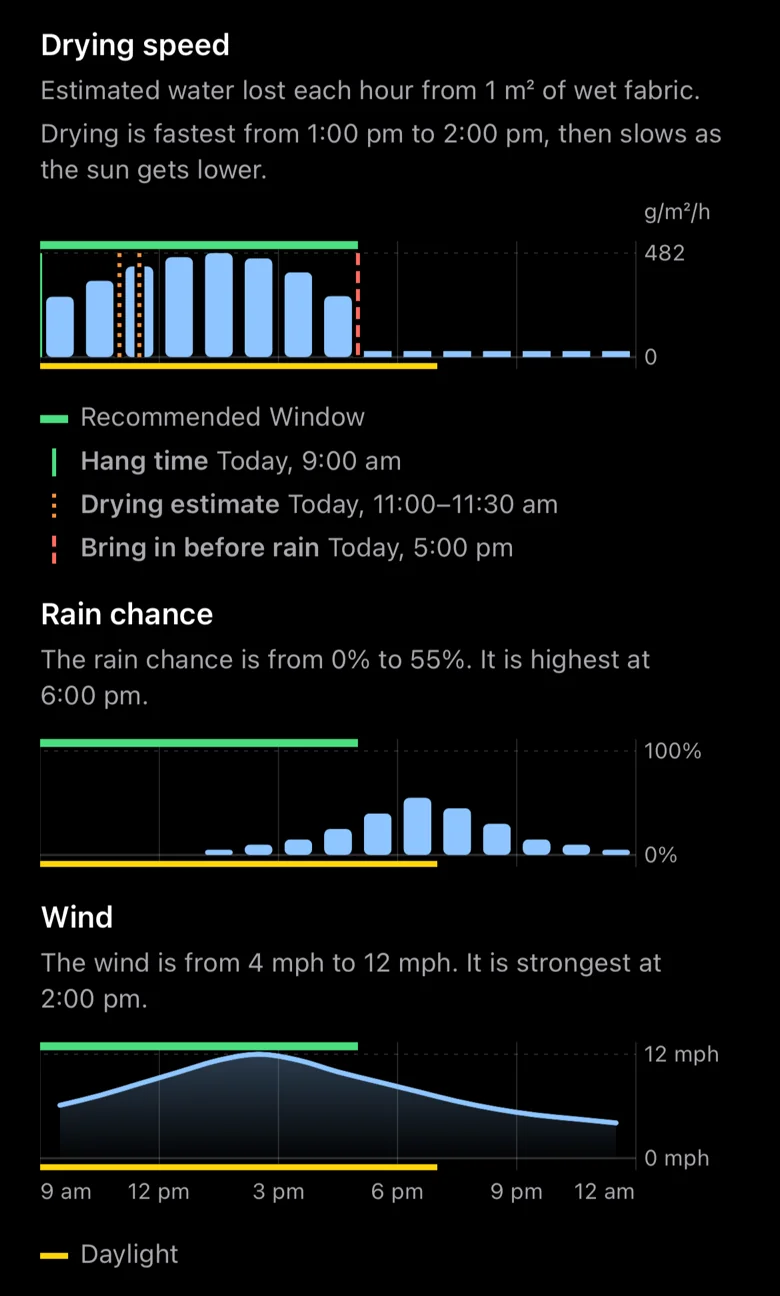
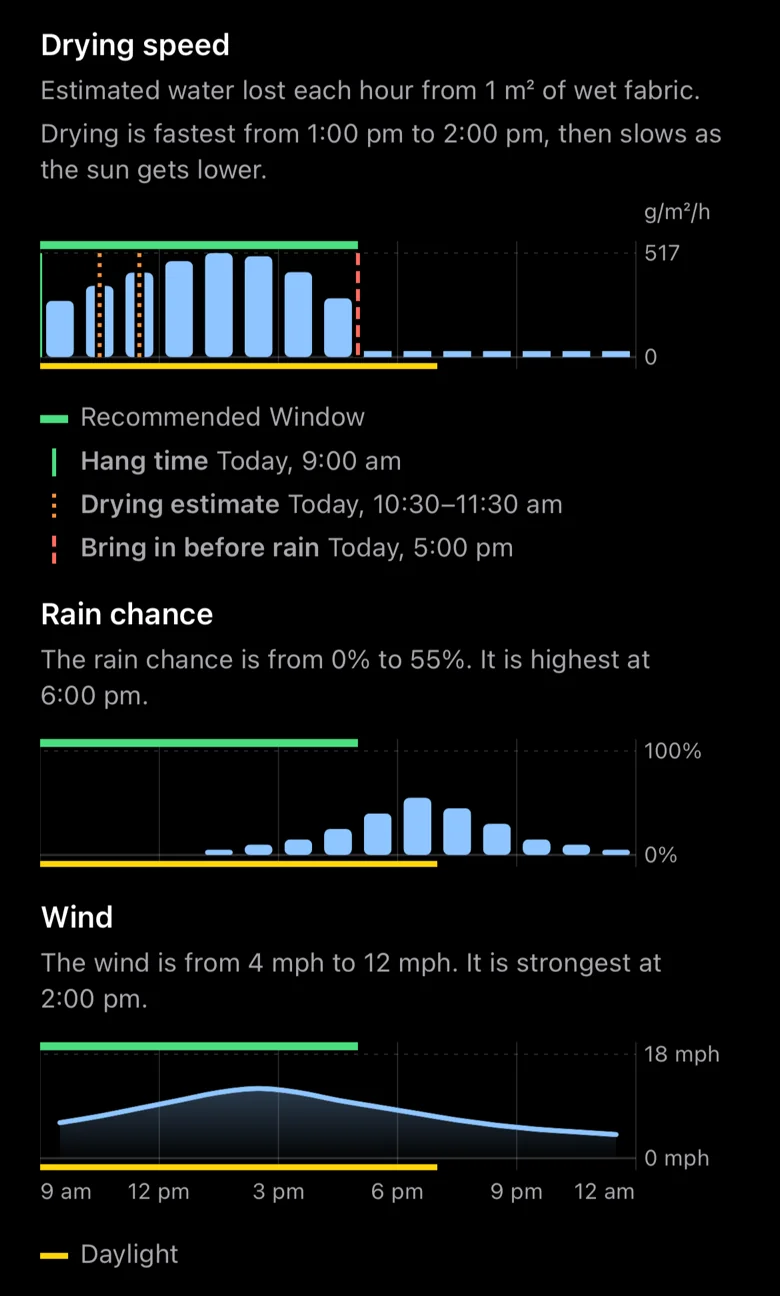
Show the PegCast build 16 screens
The weather chart now shows the line-dried drying estimate, 10:30 to 11:30 am. The images come from hosted run 39448504893.

diff --git a/src/app/pegcast/page.tsx b/src/app/pegcast/page.tsx
@@ -95,9 +95,9 @@ const liveActivityAlt: Themed = {
 };
 const chartAlt: Themed = {
   light:
-    "On a white background. Three weather charts, from 9 am to after midnight. Drying speed: estimated water lost each hour from 1 square metre of wet fabric. Drying is fastest from 1:00 pm to 2:00 pm, then slows as the sun gets lower. Its bars end at 5:00 pm, when rain is due, and a dashed line shows no drying after that. A key names the Recommended Window, the hang time at 9:00 am, the drying estimate from 11:00 to 11:30 am, and bring in before rain at 5:00 pm. Rain chance: from 0% to 55%, highest at 6:00 pm. Wind: from 4 mph to 12 mph, strongest at 2:00 pm. A green band along the top of each chart marks the Recommended Window, and a thin strip along the bottom marks the daylight hours.",
+    "On a white background. Three weather charts, from 9 am to after midnight. Drying speed: estimated water lost each hour from 1 square metre of wet fabric. Drying is fastest from 1:00 pm to 2:00 pm, then slows as the sun gets lower. Its bars end at 5:00 pm, when rain is due, and a dashed line shows no drying after that. A key names the Recommended Window, the hang time at 9:00 am, the drying estimate from 10:30 to 11:30 am, and bring in before rain at 5:00 pm. Rain chance: from 0% to 55%, highest at 6:00 pm. Wind: from 4 mph to 12 mph, strongest at 2:00 pm. A green band along the top of each chart marks the Recommended Window, and a thin strip along the bottom marks the daylight hours.",
   dark:
-    "On a black background. Three weather charts, from 9 am to after midnight. Drying speed: estimated water lost each hour from 1 square metre of wet fabric. Drying is fastest from 1:00 pm to 2:00 pm, then slows as the sun gets lower. Its bars end at 5:00 pm, when rain is due, and a dashed line shows no drying after that. A key names the Recommended Window, the hang time at 9:00 am, the drying estimate from 11:00 to 11:30 am, and bring in before rain at 5:00 pm. Rain chance: from 0% to 55%, highest at 6:00 pm. Wind: from 4 mph to 12 mph, strongest at 2:00 pm. A green band along the top of each chart marks the Recommended Window, and a thin strip along the bottom marks the daylight hours.",
+    "On a black background. Three weather charts, from 9 am to after midnight. Drying speed: estimated water lost each hour from 1 square metre of wet fabric. Drying is fastest from 1:00 pm to 2:00 pm, then slows as the sun gets lower. Its bars end at 5:00 pm, when rain is due, and a dashed line shows no drying after that. A key names the Recommended Window, the hang time at 9:00 am, the drying estimate from 10:30 to 11:30 am, and bring in before rain at 5:00 pm. Rain chance: from 0% to 55%, highest at 6:00 pm. Wind: from 4 mph to 12 mph, strongest at 2:00 pm. A green band along the top of each chart marks the Recommended Window, and a thin strip along the bottom marks the daylight hours.",
 };
 /** The app icon sits beside the name "PegCast", so it is decoration. */
 const decorative: Themed = { light: "", dark: "" };
